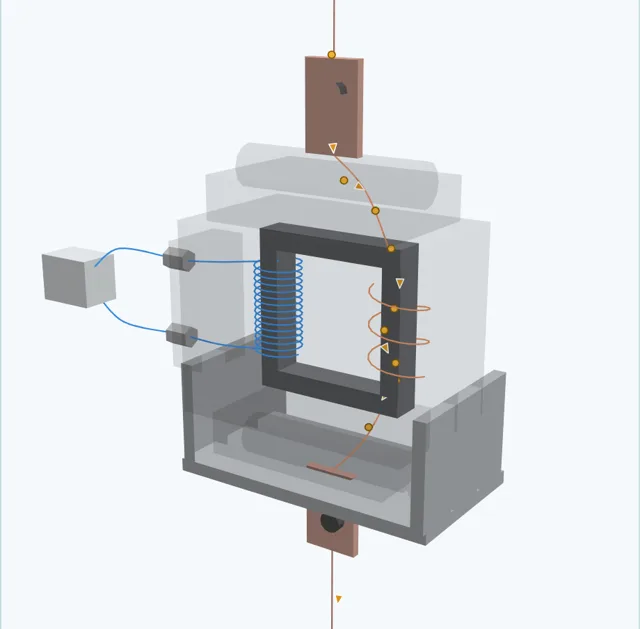
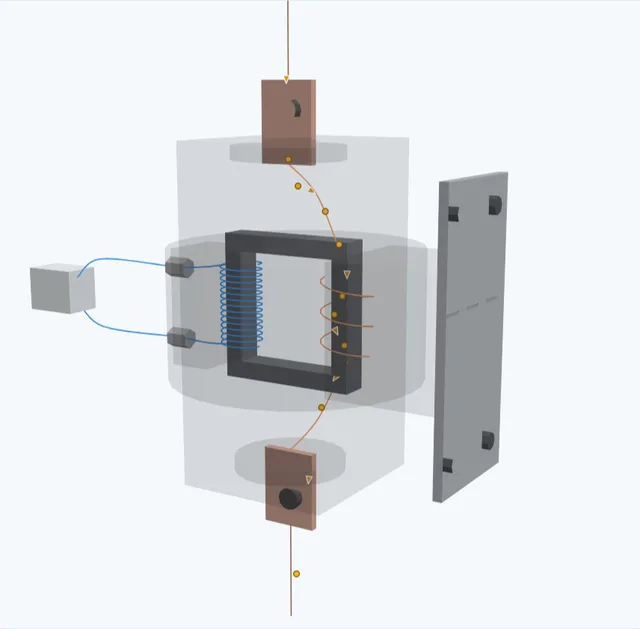
図鑑：作り直した9機器（DS・SR・SC・VCB・VT・CT・VCS・LA・PAS）のカード画像を新しいモデルに差し替え
Claude-Session: https://claude.ai/code/session_01K8yqvEN1jEtzXA6ftmTYvL

diff --git a/zukan.html b/zukan.html
@@ -923,25 +923,25 @@ html:root body button.ut-term:not(:disabled):hover,html:root body button.ut-term
 <a class="zk-glossary" href="glossary.html"><span><b>📖 用語・機器図鑑</b><span>PAS＝Pole Air Switch（柱上気中開閉器）のように、略語・英語・日本語・読みで450語以上を引ける。全語にくわしい解説つき</span></span><strong>→</strong></a><section class="zk-3d" id="models3d" aria-labelledby="models3dTitle"><div class="zk-3d-head"><h2 id="models3dTitle">🧊 360°で見る高圧機器</h2><p>回す・透かす・部品をタップ。電流の通り道も動きで見る。</p></div>
 <nav class="zk-3d-jump" aria-label="役割でさがす"><span class="lbl">役割でさがす</span><a href="#g-switch">① 切る・つなぐ<i>5</i></a><a href="#g-measure">② はかる<i>4</i></a><a href="#g-convert">③ 変える・ととのえる<i>3</i></a><a href="#g-protect">④ 雷から守る<i>1</i></a></nav>
 <div class="zk-3d-group" id="g-switch"><h3><span class="n">①</span>切る・つなぐ<small>開閉器・遮断器。「何を切れるか」が機器ごとに違う。</small></h3><div class="zk-3d-grid">
-<a class="zk-3d-card" href="pas-vtla-3d.html"><img src="assets/zukan/pas-vtla-3d.webp" alt="VT・LA内蔵PASの3Dモデルと、柱の上とキュービクル側の短絡クリップ" loading="lazy"><span class="tx"><span class="tag">PAS</span><b>柱上気中開閉器（VT・LA内蔵）</b><span class="role">電力会社との境目（責任分界点）に付く開閉器。構内の地絡で開いて、近所を停電に巻き込まない。短絡電流は切れない。</span><span class="see"><span class="see-h">3Dで見られること</span><span>主接点・ZCT・VT・LAの位置（中は模式）</span><span>耐圧試験で、クリップをつかみ忘れると</span><span>入・切、直流での電流の往路と帰路</span></span><span class="ref">参考機種：戸上 KLT-PA-D2N11LT</span><span class="go">回して見る →</span></span></a>
-<a class="zk-3d-card" href="ds-3d.html"><img src="assets/zukan/ds-3d.webp" alt="断路器の3Dモデル。V字形のエポキシ碍子、固定接触子、ブレード" loading="lazy"><span class="tx"><span class="tag">DS</span><b>断路器</b><span class="role">電流が流れていないときに開いて、回路を目に見える形で切り離す。電流は切れない。</span><span class="see"><span class="see-h">3Dで見られること</span><span>V字形の碍子・ブレード・ラッチ</span><span>無負荷で開く順番</span><span>電流が流れたまま開くと、どうなるか</span></span><span class="ref">参考機種：三菱 DV-1</span><span class="go">回して見る →</span></span></a>
-<a class="zk-3d-card" href="vcb-3d.html"><img src="assets/zukan/vcb-3d.webp" alt="引出形VCBの3Dモデル。3相の真空バルブ、操作機構、補助スイッチ、制御回路プラグ" loading="lazy"><span class="tx"><span class="tag">VCB</span><b>真空遮断器</b><span class="role">負荷電流も、短絡などの大きな事故電流も切れる。継電器の指令で引外す。</span><span class="see"><span class="see-h">3Dで見られること</span><span>真空バルブ・主軸・TC・CC・補助スイッチ（52a・52b）</span><span>引外し・投入の順番を1段ずつ</span><span>52aが開かない故障例</span></span><span class="ref">参考機種：三菱 VF-8D</span><span class="go">回して見る →</span></span></a>
+<a class="zk-3d-card" href="pas-vtla-3d.html"><img src="assets/zukan/pas-vtla-3d.webp?v=20261112" alt="VT・LA内蔵PASの3Dモデルと、柱の上とキュービクル側の短絡クリップ" loading="lazy"><span class="tx"><span class="tag">PAS</span><b>柱上気中開閉器（VT・LA内蔵）</b><span class="role">電力会社との境目（責任分界点）に付く開閉器。構内の地絡で開いて、近所を停電に巻き込まない。短絡電流は切れない。</span><span class="see"><span class="see-h">3Dで見られること</span><span>主接点・ZCT・VT・LAの位置（中は模式）</span><span>耐圧試験で、クリップをつかみ忘れると</span><span>入・切、直流での電流の往路と帰路</span></span><span class="ref">参考機種：戸上 KLT-PA-D2N11LT</span><span class="go">回して見る →</span></span></a>
+<a class="zk-3d-card" href="ds-3d.html"><img src="assets/zukan/ds-3d.webp?v=20261112" alt="断路器の3Dモデル。V字形のエポキシ碍子、固定接触子、ブレード" loading="lazy"><span class="tx"><span class="tag">DS</span><b>断路器</b><span class="role">電流が流れていないときに開いて、回路を目に見える形で切り離す。電流は切れない。</span><span class="see"><span class="see-h">3Dで見られること</span><span>V字形の碍子・ブレード・ラッチ</span><span>無負荷で開く順番</span><span>電流が流れたまま開くと、どうなるか</span></span><span class="ref">参考機種：三菱 DV-1</span><span class="go">回して見る →</span></span></a>
+<a class="zk-3d-card" href="vcb-3d.html"><img src="assets/zukan/vcb-3d.webp?v=20261112" alt="引出形VCBの3Dモデル。3相の真空バルブ、操作機構、補助スイッチ、制御回路プラグ" loading="lazy"><span class="tx"><span class="tag">VCB</span><b>真空遮断器</b><span class="role">負荷電流も、短絡などの大きな事故電流も切れる。継電器の指令で引外す。</span><span class="see"><span class="see-h">3Dで見られること</span><span>真空バルブ・主軸・TC・CC・補助スイッチ（52a・52b）</span><span>引外し・投入の順番を1段ずつ</span><span>52aが開かない故障例</span></span><span class="ref">参考機種：三菱 VF-8D</span><span class="go">回して見る →</span></span></a>
 <a class="zk-3d-card" href="lbs-pf-3d.html"><img src="assets/zukan/lbs-pf-3d.webp" alt="PF付きLBSの3Dモデル。主ブレード、補助ブレード、限流ヒューズ、ストライカ" loading="lazy"><span class="tx"><span class="tag">LBS・PF</span><b>負荷開閉器＋限流ヒューズ</b><span class="role">負荷電流は開閉器（LBS）で切る。短絡電流はヒューズ（PF）が切る。</span><span class="see"><span class="see-h">3Dで見られること</span><span>2段で切る主ブレード・補助ブレード</span><span>限流ヒューズの中</span><span>ストライカで3相が開くまで</span></span><span class="ref">参考機種：三菱 SCL-EHS2R</span><span class="go">回して見る →</span></span></a>
-<a class="zk-3d-card" href="vcs-3d.html"><img src="assets/zukan/vcs-3d.webp" alt="真空電磁接触器の3Dモデル。真空バルブ、電力ヒューズ、電磁石" loading="lazy"><span class="tx"><span class="tag">VCS</span><b>真空電磁接触器</b><span class="role">何度も入り切りする回路のための接触器。短絡電流は電力ヒューズが切る。</span><span class="see"><span class="see-h">3Dで見られること</span><span>投入コイル・永久磁石・引外しコイルの順番</span><span>常時励磁式との違い</span><span>ヒューズ溶断で3相が開くまで</span></span><span class="ref">参考機種：三菱 VZ-E</span><span class="go">回して見る →</span></span></a>
+<a class="zk-3d-card" href="vcs-3d.html"><img src="assets/zukan/vcs-3d.webp?v=20261112" alt="真空電磁接触器の3Dモデル。真空バルブ、電力ヒューズ、電磁石" loading="lazy"><span class="tx"><span class="tag">VCS</span><b>真空電磁接触器</b><span class="role">何度も入り切りする回路のための接触器。短絡電流は電力ヒューズが切る。</span><span class="see"><span class="see-h">3Dで見られること</span><span>投入コイル・永久磁石・引外しコイルの順番</span><span>常時励磁式との違い</span><span>ヒューズ溶断で3相が開くまで</span></span><span class="ref">参考機種：三菱 VZ-E</span><span class="go">回して見る →</span></span></a>
 </div></div>
 <div class="zk-3d-group" id="g-measure"><h3><span class="n">②</span>はかる<small>高圧のままでは測れない。小さくして、計器や継電器へ渡す。</small></h3><div class="zk-3d-grid">
-<a class="zk-3d-card" href="vt-withstand-3d.html"><img src="assets/zukan/vt-withstand-3d.webp" alt="VTの3Dモデル。鉄心、一次巻線、二次巻線、ヒューズ" loading="lazy"><span class="tx"><span class="tag">VT</span><b>計器用変圧器</b><span class="role">高い電圧を110Vに下げて、計器や継電器へ渡す。</span><span class="see"><span class="see-h">3Dで見られること</span><span>鉄心・巻線・ヒューズ</span><span>U–V短絡の耐圧試験</span><span>Uだけ（V浮き／V接地）で何が起きるか</span></span><span class="ref">参考機種：PD-100HF</span><span class="go">回して見る →</span></span></a>
-<a class="zk-3d-card" href="ct-3d.html"><img src="assets/zukan/ct-3d.webp" alt="CTの3Dモデル。一次端子K・L、鉄心、二次巻線、二次端子k・l" loading="lazy"><span class="tx"><span class="tag">CT</span><b>変流器</b><span class="role">大きな電流を5Aなどの小さな電流にして、計器や継電器へ渡す。</span><span class="see"><span class="see-h">3Dで見られること</span><span>一次と二次の電流・磁束</span><span>二次を開けてはいけない理由</span><span>耐圧試験の結線</span></span><span class="ref">参考機種：三菱 CD-25ENB</span><span class="go">回して見る →</span></span></a>
+<a class="zk-3d-card" href="vt-withstand-3d.html"><img src="assets/zukan/vt-withstand-3d.webp?v=20261112" alt="VTの3Dモデル。鉄心、一次巻線、二次巻線、ヒューズ" loading="lazy"><span class="tx"><span class="tag">VT</span><b>計器用変圧器</b><span class="role">高い電圧を110Vに下げて、計器や継電器へ渡す。</span><span class="see"><span class="see-h">3Dで見られること</span><span>鉄心・巻線・ヒューズ</span><span>U–V短絡の耐圧試験</span><span>Uだけ（V浮き／V接地）で何が起きるか</span></span><span class="ref">参考機種：PD-100HF</span><span class="go">回して見る →</span></span></a>
+<a class="zk-3d-card" href="ct-3d.html"><img src="assets/zukan/ct-3d.webp?v=20261112" alt="CTの3Dモデル。一次端子K・L、鉄心、二次巻線、二次端子k・l" loading="lazy"><span class="tx"><span class="tag">CT</span><b>変流器</b><span class="role">大きな電流を5Aなどの小さな電流にして、計器や継電器へ渡す。</span><span class="see"><span class="see-h">3Dで見られること</span><span>一次と二次の電流・磁束</span><span>二次を開けてはいけない理由</span><span>耐圧試験の結線</span></span><span class="ref">参考機種：三菱 CD-25ENB</span><span class="go">回して見る →</span></span></a>
 <a class="zk-3d-card" href="zct-3d.html"><img src="assets/zukan/zct-3d.webp" alt="ZCTの3Dモデル。貫通孔、セパレータ、環状鉄心と二次巻線" loading="lazy"><span class="tx"><span class="tag">ZCT</span><b>零相変流器</b><span class="role">3本の電流の合計を見る。ふだんは0。地絡で漏れた分だけが出てくる。</span><span class="see"><span class="see-h">3Dで見られること</span><span>貫通孔・環状鉄心・二次巻線</span><span>3本の電流の合計が0になる様子</span><span>地絡で孔の外を通る帰り道</span></span><span class="ref">参考機種：オムロン OTG-N68</span><span class="go">回して見る →</span></span></a>
 <a class="zk-3d-card" href="evt-3d.html"><img src="assets/zukan/evt-3d.webp" alt="EVTの3Dモデル。単相3台の一次・二次・三次巻線、三次オープンデルタと制限抵抗" loading="lazy"><span class="tx"><span class="tag">EVT</span><b>接地形計器用変圧器</b><span class="role">地絡のときに現れる電圧（零相電圧）を取り出す。</span><span class="see"><span class="see-h">3Dで見られること</span><span>一次・二次・三次の巻線、三次オープンデルタ</span><span>地絡で約190Vが出るまで</span><span>三次から入れると高圧側へ昇圧する</span></span><span class="ref">参考機種：東光高岳 GC-1（定格）</span><span class="go">回して見る →</span></span></a>
 </div></div>
 <div class="zk-3d-group" id="g-convert"><h3><span class="n">③</span>変える・ととのえる<small>使える電圧に下げる。力率と高調波をととのえる。</small></h3><div class="zk-3d-grid">
 <a class="zk-3d-card" href="tr-3d.html"><img src="assets/zukan/tr-3d.webp" alt="油入変圧器の3Dモデル。波形のタンク、ブッシング、中の鉄心と巻線、タップ板" loading="lazy"><span class="tx"><span class="tag">TR</span><b>油入変圧器</b><span class="role">6,600Vを、建物で使う低い電圧に下げる。</span><span class="see"><span class="see-h">3Dで見られること</span><span>鉄心・巻線・磁束</span><span>負荷で一次電流が増える理由</span><span>タップの切り換え</span></span><span class="ref">参考機種：日立 トップランナー 100kVA</span><span class="go">回して見る →</span></span></a>
-<a class="zk-3d-card" href="sc-3d.html"><img src="assets/zukan/sc-3d.webp" alt="高圧進相コンデンサの3Dモデル。容器胴、内部素子、放電抵抗、保安装置" loading="lazy"><span class="tx"><span class="tag">SC</span><b>進相コンデンサ</b><span class="role">遅れの無効電力を打ち消して、力率を良くする。</span><span class="see"><span class="see-h">3Dで見られること</span><span>放電抵抗で5分</span><span>自己回復</span><span>ケースのふくらみで保安装置が切るまで</span></span><span class="ref">参考機種：日新 PET-FK4N</span><span class="go">回して見る →</span></span></a>
-<a class="zk-3d-card" href="sr-3d.html"><img src="assets/zukan/sr-3d.webp" alt="直列リアクトルの3Dモデル。タンク、ギャップ付き鉄心、コイル、温度センサ" loading="lazy"><span class="tx"><span class="tag">SR</span><b>直列リアクトル</b><span class="role">コンデンサの手前に入れる。高調波の流れ込みと、投入時の突入電流を抑える。</span><span class="see"><span class="see-h">3Dで見られること</span><span>6%の意味</span><span>第5高調波で誘導性になる理由</span><span>温度センサの保護</span></span><span class="ref">参考機種：日新 HM-LN3</span><span class="go">回して見る →</span></span></a>
+<a class="zk-3d-card" href="sc-3d.html"><img src="assets/zukan/sc-3d.webp?v=20261112" alt="高圧進相コンデンサの3Dモデル。容器胴、内部素子、放電抵抗、保安装置" loading="lazy"><span class="tx"><span class="tag">SC</span><b>進相コンデンサ</b><span class="role">遅れの無効電力を打ち消して、力率を良くする。</span><span class="see"><span class="see-h">3Dで見られること</span><span>放電抵抗で5分</span><span>自己回復</span><span>ケースのふくらみで保安装置が切るまで</span></span><span class="ref">参考機種：日新 PET-FK4N</span><span class="go">回して見る →</span></span></a>
+<a class="zk-3d-card" href="sr-3d.html"><img src="assets/zukan/sr-3d.webp?v=20261112" alt="直列リアクトルの3Dモデル。タンク、ギャップ付き鉄心、コイル、温度センサ" loading="lazy"><span class="tx"><span class="tag">SR</span><b>直列リアクトル</b><span class="role">コンデンサの手前に入れる。高調波の流れ込みと、投入時の突入電流を抑える。</span><span class="see"><span class="see-h">3Dで見られること</span><span>6%の意味</span><span>第5高調波で誘導性になる理由</span><span>温度センサの保護</span></span><span class="ref">参考機種：日新 HM-LN3</span><span class="go">回して見る →</span></span></a>
 </div></div>
 <div class="zk-3d-group" id="g-protect"><h3><span class="n">④</span>雷から守る<small>異常に高い電圧を大地へ逃がす。</small></h3><div class="zk-3d-grid">
-<a class="zk-3d-card" href="la-3d.html"><img src="assets/zukan/la-3d.webp" alt="避雷器の3Dモデル。磁器がいしの中の直列ギャップと特性要素" loading="lazy"><span class="tx"><span class="tag">LA</span><b>避雷器</b><span class="role">雷などの高い電圧（サージ）を大地へ逃がして、機器の絶縁を守る。</span><span class="see"><span class="see-h">3Dで見られること</span><span>直列ギャップと特性要素</span><span>雷サージを大地へ逃がす</span><span>続流を止めるまで</span></span><span class="ref">参考機種：音羽 GL-B6G</span><span class="go">回して見る →</span></span></a>
+<a class="zk-3d-card" href="la-3d.html"><img src="assets/zukan/la-3d.webp?v=20261112" alt="避雷器の3Dモデル。磁器がいしの中の直列ギャップと特性要素" loading="lazy"><span class="tx"><span class="tag">LA</span><b>避雷器</b><span class="role">雷などの高い電圧（サージ）を大地へ逃がして、機器の絶縁を守る。</span><span class="see"><span class="see-h">3Dで見られること</span><span>直列ギャップと特性要素</span><span>雷サージを大地へ逃がす</span><span>続流を止めるまで</span></span><span class="ref">参考機種：音羽 GL-B6G</span><span class="go">回して見る →</span></span></a>
 </div></div>
 <p class="zk-3d-note">形は原理を理解するためのモデルです。資料で確かめた部分と推定の部分は、各ページで分けて書いています。</p></section>
 
